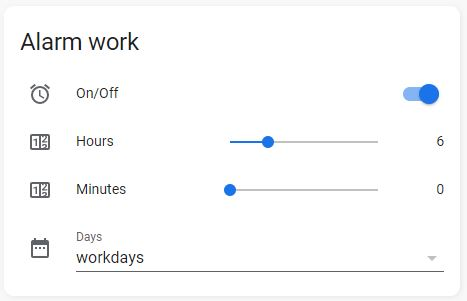
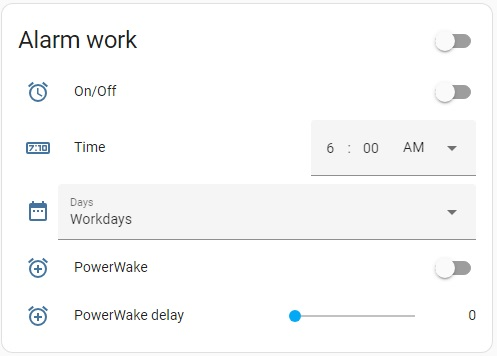
Added custom days
- Added custom days
- Update README

diff --git a/custom_components/somneo/__init__.py b/custom_components/somneo/__init__.py
@@ -26,6 +26,7 @@ PLATFORMS = [
     Platform.TIME,
     Platform.BUTTON,
     Platform.MEDIA_PLAYER,
+    Platform.TEXT
 ]
 SCAN_INTERVAL = timedelta(seconds=60)
 
@@ -210,26 +211,38 @@ class SomneoCoordinator(DataUpdateCoordinator[None]):
     async def async_set_alarm_day(self, alarm, day):
         """Set the day of the alarm."""
         async with self.state_lock:
-            if day == WORKDAYS:
+            if type(day) == list:
                 await self.hass.async_add_executor_job(
-                    self.somneo.set_alarm_workdays, alarm
-                )
+                        self.somneo.set_alarm_days,
+                        alarm,
+                        day
+                    )
                 _LOGGER.debug("Optie is werkday")
-            elif day == WEEKEND:
-                await self.hass.async_add_executor_job(
-                    self.somneo.set_alarm_weekend, alarm
-                )
-                _LOGGER.debug("Optie is weekend")
-            elif day == TOMORROW:
-                await self.hass.async_add_executor_job(
-                    self.somneo.set_alarm_tomorrow, alarm
-                )
-                _LOGGER.debug("Optie is morgen")
-            elif day == EVERYDAY:
-                await self.hass.async_add_executor_job(
-                    self.somneo.set_alarm_everyday, alarm
-                )
-                _LOGGER.debug("Optie is elke dag")
+            else:
+                if day == WORKDAYS:
+                    await self.hass.async_add_executor_job(
+                        self.somneo.set_alarm_workdays,
+                        alarm
+                    )
+                    _LOGGER.debug("Optie is werkday")
+                elif day == WEEKEND:
+                    await self.hass.async_add_executor_job(
+                        self.somneo.set_alarm_weekend,
+                        alarm
+                    )
+                    _LOGGER.debug("Optie is weekend")
+                elif day == TOMORROW:
+                    await self.hass.async_add_executor_job(
+                        self.somneo.set_alarm_tomorrow,
+                        alarm
+                    )
+                    _LOGGER.debug("Optie is morgen")
+                elif day == EVERYDAY:
+                    await self.hass.async_add_executor_job(
+                        self.somneo.set_alarm_everyday,
+                        alarm
+                    )
+                    _LOGGER.debug("Optie is elke dag")
 
             await self.async_request_refresh()
 

diff --git a/custom_components/somneo/text.py b/custom_components/somneo/text.py
@@ -1,0 +1,71 @@
+"""Text entities for Somneo."""
+import logging
+from typing import Any
+import voluptuous as vol
+
+from homeassistant.config_entries import ConfigEntry
+from homeassistant.const import CONF_NAME
+from homeassistant.core import HomeAssistant, callback
+from homeassistant.helpers.entity_platform import AddEntitiesCallback
+from homeassistant.components.text import TextEntity
+from homeassistant.helpers import config_validation as cv, entity_platform
+
+from .const import (
+    DOMAIN,
+    WORKDAYS_ICON
+)
+from .entity import SomneoEntity
+
+
+_LOGGER = logging.getLogger(__name__)
+
+
+async def async_setup_entry(
+    hass: HomeAssistant,
+    config_entry: ConfigEntry,
+    async_add_entities: AddEntitiesCallback,
+) -> None:
+    """Add Somneo from config_entry."""
+
+    coordinator = hass.data[DOMAIN][config_entry.entry_id]
+    unique_id = config_entry.unique_id
+    assert unique_id is not None
+    name = config_entry.data[CONF_NAME]
+    device_info = config_entry.data["dev_info"]
+
+    alarms = []
+    for alarm in list(coordinator.data["alarms"]):
+        alarms.append(
+            SomneoAlarmDays(coordinator, unique_id, name, device_info, alarm)
+        )
+
+    async_add_entities(alarms, update_before_add=True)
+
+
+class SomneoAlarmDays(SomneoEntity, TextEntity):
+    """Representation of a alarm switch."""
+
+    _attr_should_poll = True
+    _attr_assumed_state = False
+    _attr_available = True
+    _attr_icon = WORKDAYS_ICON
+    _attr_native_value = None
+    _attr_pattern = "^((tomorrow|mon|tue|wed|thu|fri|sat|sun)(,)?)+$"
+
+    def __init__(self, coordinator, unique_id, name, device_info, alarm):
+        """Initialize the switches."""
+        super().__init__(coordinator, unique_id, name, device_info, alarm)
+
+        self._attr_translation_key = alarm + '_days_str'
+        self._alarm = alarm
+
+    @callback
+    def _handle_coordinator_update(self) -> None:
+        days_list = self.coordinator.data["alarm_day_list"][self._alarm]
+        self._attr_native_value = ",".join([str(item) for item in days_list if item])
+
+        self.async_write_ha_state()
+
+    async def async_set_value(self, value: str) -> None:
+        """Set the text value."""
+        await self.coordinator.async_set_alarm_day(self._alarm, value.split(','))

diff --git a/custom_components/somneo/select.py b/custom_components/somneo/select.py
@@ -7,7 +7,7 @@ from homeassistant.core import HomeAssistant, callback
 from homeassistant.helpers.entity_platform import AddEntitiesCallback
 from homeassistant.components.select import SelectEntity
 
-from .const import DOMAIN, WORKDAYS, WEEKEND, TOMORROW, EVERYDAY, UNKNOWN, WORKDAYS_ICON
+from .const import DOMAIN, WORKDAYS, WEEKEND, TOMORROW, EVERYDAY, CUSTOM, WORKDAYS_ICON
 from .entity import SomneoEntity
 
 
@@ -42,7 +42,7 @@ class SomneoDays(SomneoEntity, SelectEntity):
     _attr_icon = WORKDAYS_ICON
     _attr_assumed_state = False
     _attr_available = True
-    _attr_options = [WORKDAYS, WEEKEND, TOMORROW, EVERYDAY, UNKNOWN]
+    _attr_options = [WORKDAYS, WEEKEND, TOMORROW, EVERYDAY, CUSTOM]
     _attr_current_option = WORKDAYS
 
     def __init__(self, coordinator, unique_id, name, dev_info, alarm):

diff --git a/custom_components/somneo/const.py b/custom_components/somneo/const.py
@@ -25,7 +25,7 @@ WORKDAYS: Final = "workdays"
 WEEKEND: Final = "weekend"
 TOMORROW: Final = "tomorrow"
 EVERYDAY: Final = "daily"
-UNKNOWN: Final = "unknown"
+CUSTOM: Final = "custom"
 PW_DELTA: Final = "powerwake_delta"
 
 ALARMS_ICON: Final = "hass:alarm"

diff --git a/README.md b/README.md
@@ -1,53 +1,61 @@
-# Somneo custom component
-Home Assistant custom component for Philips Someo. This integration let's you control the light of the Somneo and reads the following sensors: temperature, humidity, luminance and noise. Furthermore, it provides the alarms set on your Somneo instance as binary sensors and provides a sensor with the first upcoming alarm. 
+# Somneo custom integration
+Home Assistant custom integration to control a Philips Somneo device. This integration let's you control:
+  - The light and nightlight of the Somneo
+  - All the 16 available alarms (toggle, time, days, powerwake)
+  - Media player of the Somneo (FM radio or aux. input)
+  - Snooze or ignore alarm (buttons)
+
+Furthermore, it provides the following sensors:
+  - Ambient sensors (temperature, humidity, luminance and noise)
+  - Alarm status (on, off, snooze, wake-up)
+  - Next alarm
 
 # Installation
 You can install this custom component via HACS as a custom repository (https://hacs.xyz/docs/faq/custom_repositories/). Alternatively you can clone or copy the files into the somneo folder in the custom_components folder of HomeAssistant.
 
 # Configuration
-Go to: https://my.home-assistant.io/redirect/config_flow_start/?domain=somneo
+The Somneo should be automatically detected via SSDP. If not, you can also manually configure the Somneo: https://my.home-assistant.io/redirect/config_flow_start/?domain=somneo.
 
-# Alarm Configuration
-### With slider-entity-row from HACS`
-Add a "manual" card into lovelace UI and copy paste the following code. It will create a card for the first Somneo Alarm (alarm0). 
+# Alarm UI configuration
+Add a "manual" card into lovelace UI and copy paste the following code. It will create a card for the first Somneo Alarm (alarm0).
 Other cards can be created for other alarms (alarm1, alarm2, etc.)
 ```
 type: entities
 entities:
   - entity: switch.somneo_alarm0
     name: On/Off
-  - type: custom:slider-entity-row
-    entity: number.somneo_alarm0_hours
-    hide_state: false
-    name: Hours
-  - type: custom:slider-entity-row
-    entity: number.somneo_alarm0_minutes
-    hide_state: false
-    name: Minutes
+  - entity: time.somneo_alarm0_time
+    name: Time
   - entity: select.somneo_alarm0_days
     name: Days
+  - entity: switch.somneo_alarm0_powerwake
+    name: PowerWake
+  - entity: number.somneo_alarm0_powerwake_delay
+    name: PowerWake delay
 title: Alarm work
-show_header_toggle: false
 ```
-<img src="https://github.com/theneweinstein/somneo/blob/master/lovelace1.jpg" alt="Example Lovelace Slider" width="80%"/>
+<img src="https://github.com/theneweinstein/somneo/blob/master/lovelace1.jpg" alt="Example Lovelace" width="80%"/>
 
-### Without slider-entity-row from HACS
+# Custom alarm days
 
+The select entity for the days only supports a limited set of days, namely weekdays, weekends, everyday and tomorrow. In case you want to select a different day for the alarm, you can use the text entity. The text contains a comma-seperated list (without white-spaces) of abbreviations of the day of the week (i.e. `mon,tue,wed,thu,fri,sat,sun`) or `tomorrow`.
 ```
 type: entities
 entities:
   - entity: switch.somneo_alarm0
     name: On/Off
-  - entity: number.somneo_alarm0_hours
-    name: Hours
-  - entity: number.somneo_alarm0_minutes
-    name: Minutes
-  - entity: select.somneo_alarm0_days
+  - entity: time.somneo_alarm0_time
+    name: Time
+  - entity: text.somneo_alarm0_days
     name: Days
+  - entity: switch.somneo_alarm0_powerwake
+    name: PowerWake
+  - entity: number.somneo_alarm0_powerwake_delay
+    name: PowerWake delay
 title: Alarm work
-show_header_toggle: false
 ```
-<img src="https://github.com/theneweinstein/somneo/blob/master/lovelace2.jpg" alt="Example Lovelace" width="80%"/>
+<img src="https://github.com/theneweinstein/somneo/blob/master/lovelace2.jpg" alt="Example Lovelace with custom days" width="80%"/>
+
 
 # Services
 This component includes two services to adjust the wake-up light and sound settings. To adjust the light settings of an alarm you can call the following function:
